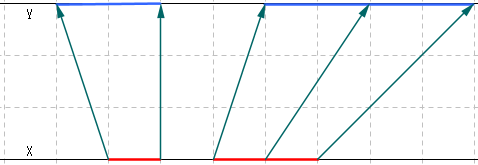
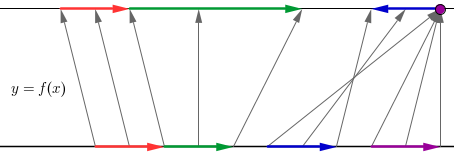
Updates numbers/infinitesimals.md
Auto commit by GitBook Editor

diff --git a/calculus/limits.md b/calculus/limits.md
@@ -3,13 +3,15 @@
 ### 函数极限
 
 考虑函数$$f(x)=\displaystyle{\frac{x^2-3x+2}{x^2-1}}$$，该函数在$$x=\pm 1$$处无定义。在$$x=-1$$处，函数$$f$$趋于无穷大；在$$x=-1$$处，函数$$f$$趋于$$-\frac12$$。
+
 ![](/assets/limits1.png)
-如何讨论函数的这种现象呢？我们发现，尽管在$$x=\pm1$$处无定义，但在其附近却处处有定义，这让我们联想到无穷小量。如果将$$f$$扩展到超实数域$${}^*\mathbb R$$，记作$${}^*f$$，取无穷小量$$\epsilon=\{\frac1n\}_1^\infty$$，那么对于$$^*x=1+\epsilon$$，有$$^*f(^*x)=\displaystyle{\frac{(1+\epsilon)^2-3(1+\epsilon)+2}{(1+\epsilon)^2-1}}=\frac{\epsilon-1}{\epsilon+2}$$。故$$\mathop{st} {}^*f(^*x)=\displaystyle{\lim_{n\to\infty}\frac{\frac1n-1}{\frac1n+2}=-\frac12}$$。  
-而对于$$^*x=-1+\epsilon$$，有$$^*f(^*x)=1-\displaystyle{\frac3\epsilon}$$，即$$\mathop{st} {}^*f(^*x)=\displaystyle{\lim_{n\to\infty}1-3n=-\infty}$$。如果我们取无穷小量$$\delta=\{-\frac1n\}_1^\infty$$，则$$\mathop{st}{}^*f(1+\delta)=-\frac12,\mathop{st}{}^*f(-1+\delta)=+\infty$$。我们还可以讨论$$^*f$$在$$x\to\infty$$时的表现，不难证明，$$\mathop{st}{}^*f(\frac1\epsilon)=\mathop{st}{}^*f(\frac1\delta)=1$$。
 
-对于实数域上的偏函数$$f:\mathbb R \to \mathbb R$$，将$$f$$扩展到超实数域$$^*f:^*\mathbb R \to ^*\mathbb R$$，且令$$\epsilon$$为正无穷小量，则定义$$f$$在点$$p$$的**左极限**为$$f(p^-):=\lim_{x\to p^-}f(x):=\mathop{st}{}^*f(p-\epsilon)$$，**右极限**为$$f(p^+):=\lim_{x\to p^+}f(x):=\mathop{st}{}^*f(p+\epsilon)$$。如果左极限和右极限相等，则极限值称为$$f$$在点$$p$$处的**极限**，或者，$$\lim_{x\to p}f(x):=\mathop{st}{}^*f({}^*p)$$。
+如何讨论函数的这种现象呢？我们发现，尽管在$$x=\pm1$$处无定义，但在其附近却处处有定义，这让我们联想到无穷小量。如果将$$f$$扩展到超实数域$${}^*\mathbb R$$，记作$${}^*f$$，取无穷小量$$\varepsilon=\{\frac1n\}_1^\infty$$，那么对于$$^*x=1+\varepsilon$$，有$$^*f(^*x)=\displaystyle{\frac{(1+\varepsilon)^2-3(1+\varepsilon)+2}{(1+\varepsilon)^2-1}}=\frac{\varepsilon-1}{\varepsilon+2}$$。故$$\mathop{st} {}^*f(^*x)=\displaystyle{\lim_{n\to\infty}\frac{\frac1n-1}{\frac1n+2}=-\frac12}$$。  
+而对于$$^*x=-1+\varepsilon$$，有$$^*f(^*x)=1-\displaystyle{\frac3\varepsilon}$$，即$$\mathop{st} {}^*f(^*x)=\displaystyle{\lim_{n\to\infty}1-3n=-\infty}$$。如果我们取无穷小量$$\delta=\{-\frac1n\}_1^\infty$$，则$$\mathop{st}{}^*f(1+\delta)=-\frac12,\mathop{st}{}^*f(-1+\delta)=+\infty$$。我们还可以讨论$$^*f$$在$$x\to\infty$$时的表现，不难证明，$$\mathop{st}{}^*f(\frac1\varepsilon)=\mathop{st}{}^*f(\frac1\delta)=1$$。
 
-极限还有另一种解释，如果任意精度的“尺子”最终无法测量$$L$$与$$p$$附近函数值$$f(x)$$之间的距离，那么$$f(x)$$在$$x=p$$处的极限为$$L$$。用数学语言表达为：$$\forall \epsilon \gt 0, \exists \delta \gt 0, \forall x \in (p-\delta, p+\delta): |f(x)-L| \lt \epsilon$$。读者可以将此与柯西列极限作比较。
+对于实数域上的偏函数$$f:\mathbb R \to \mathbb R$$，将$$f$$扩展到超实数域$$^*f:^*\mathbb R \to ^*\mathbb R$$，且令$$\varepsilon$$为正无穷小量，则定义$$f$$在点$$p$$的**左极限**为$$f(p^-):=\lim_{x\to p^-}f(x):=\mathop{st}{}^*f(p-\varepsilon)$$，**右极限**为$$f(p^+):=\lim_{x\to p^+}f(x):=\mathop{st}{}^*f(p+\varepsilon)$$。如果左极限和右极限相等，则极限值称为$$f$$在点$$p$$处的**极限**，或者，$$\lim_{x\to p}f(x):=\mathop{st}{}^*f({}^*p)$$。
+
+极限还有另一种解释，如果任意精度的“尺子”最终无法测量$$L$$与$$p$$附近函数值$$f(x)$$之间的距离，那么$$f(x)$$在$$x=p$$处的极限为$$L$$。用数学语言表达为：$$\forall \varepsilon \gt 0, \exists \delta \gt 0, \forall x \in (p-\delta, p+\delta): |f(x)-L| \lt \varepsilon$$。读者可以将此与柯西列极限作比较。
 
 **注意** _极限不一定存在，甚至单边极限也不一定存在，例如Dirichlet函数_$$D(x)=\begin{cases}1,&x \in \mathbb Q\\ 0, & x \notin \mathbb Q\end{cases}$$_处处不存在极限。_
 
@@ -37,7 +39,7 @@
 5. $$\lim_{x\to0}\dfrac{\cos ax-1}x=0$$
 6. $$\lim_{x\to0}\dfrac{\sin ax}{x}=a$$
 
-**证明**：性质1是定义的直接结果；利用牛顿二项式定理，因为$$(1+x)^a=\sum_{k=0}^\infty\binom{a}{k}x^k=1+ax+\sum_{k=2}^\infty\binom{a}{k}x^k$$，所以$$\lim_{x\to0}\dfrac{(1+x)^a-1}{x}=\mathop{st}\left(a+\sum_{k=1}^n\binom{a}{k+1}\epsilon^{k}\right)=a$$，性质2成立；性质3是性质2的推论；性质4只需对性质1取对数；性质5和6可对性质3应用欧拉公式。
+**证明**：性质1是定义的直接结果；利用牛顿二项式定理，因为$$(1+x)^a=\sum_{k=0}^\infty\binom{a}{k}x^k=1+ax+\sum_{k=2}^\infty\binom{a}{k}x^k$$，所以$$\lim_{x\to0}\dfrac{(1+x)^a-1}{x}=\mathop{st}\left(a+\sum_{k=1}^n\binom{a}{k+1}\varepsilon^{k}\right)=a$$，性质2成立；性质3是性质2的推论；性质4只需对性质1取对数；性质5和6可对性质3应用欧拉公式。
 ## 连续性
 
 如果函数$$f$$在点$$p$$处有定义且极限$$\lim_{x \to p}f(x)=f(p)$$，则称$$f$$在点$$p$$处**连续**。如果函数在定义域上每一点都连续，则称$$f$$为**连续函数**。

diff --git a/calculus/derivatives.md b/calculus/derivatives.md
@@ -2,12 +2,15 @@
 
 ## 定义
 
-实数域$$\mathbb R$$上的一个有序对$$(a,b)$$称为一个**有向区间**（不要求有$$a \lt b$$）。对子集$$X \subseteq \mathbb R$$上任意一点$$x\in X$$，称有向区间集合$$T_xX:=\{(x,x') \vert x' \in \mathbb R\}$$为$$X$$在点$$x$$处的**切集**，$$TX:=\bigcup_{x \in X}T_xX$$为$$X$$的切集。定义$$(a,b)$$的**有向长度**$$\overline{ab}:=b-a$$，因为任意$$(x,x') \in T_xX$$，存在唯一实数$$v_x = \overline{xx'}$$，反之亦然，故也有$$T_xX=\{v_x|v_x \in \mathbb R\}$$。
-
-考虑线性函数$$l:X\to Y$$满足$$x\mapsto kx$$。函数$$l$$是子集$$X$$到$$Y$$的均匀伸缩。可以计算$$l$$在$$x \in X$$处的伸缩比$$l'(x)=\dfrac{\overline{l(x)l(x')}}{\overline{xx'}}=\dfrac{kx'-kx}{x'-x}=k$$。显然，$$x$$处的伸缩比$$l'(x)$$应该与$$x'$$的选择无关。
+考虑实函数$$y=f(x)$$，$$f$$可看作定义域到值域的一个伸缩形变。例如，在下图中，红色部分是一个等距平移，绿色部分是一个拉伸，蓝色部分是一个反向拉伸，紫色部分是一个压缩。为了研究函数$$f$$的形变情况，可以定义形变率。
 
 ![](/assets/derivatives1.png)
 
-自然地，函数$$l$$导出切集上的函数$$l_*:TX \to TY$$满足$$(x,x')\mapsto (kx,kx')$$以及$$l_{x*}:T_xX\to T_{l(x)}Y$$满足$$v_x\mapsto v_{l(x)}:=kv_x$$。因此，$$x$$处的伸缩比还可定义为$$l'(x):=\dfrac{v_{l(x)}}{v_x}=\dfrac{kv_x}{v_x}=k$$，或者$$l'(x)=l_{x*}$$。
+具体来说，定义实数域$$\mathbb R$$上的一个有序对$$(a,b)$$为一个**有向区间**（不必有$$a \lt b$$），$$\overline{ab}:=b-a$$为$$(a,b)$$的**有向长度**。那么，函数$$f$$在有向区间$$(a,b)$$的形变率$$k_f(a,b)=\dfrac{\overline{f(a)f(b)}}{\overline{ab}}$$。如果函数$$f$$是线性函数，即对任意$$(a,b)$$满足$$\overline{f(a)f(b)}=f(\overline{ab})$$，则$$k_f(a,b)=\dfrac{f(\overline{ab})}{\overline{ab}}=f(1)$$是常数，所以线性函数在每一点具有相同的形变率。显然，如果将函数$$f$$平移至$$g(x)=f(x)+c$$，则$$g(x)$$在每一个有向区间上的形变率不变。因此，仿射函数（线性函数的平移）在每一点也具有相同的形变率。
 
-对于一般的实函数$$f:X\to Y$$，也可以看做是子集$$X$$到$$Y$$的伸缩，只不过不是均匀的。因此在计算点$$x$$处的伸缩比$$f'(x)$$时，需要选取
+在上图中，函数$$f(x)$$在红、蓝、紫色区间内是仿射函数，每一点的形变率可以由有向区间长度比直接求出；而在绿色区间内，定义域上相同长度的有向子区间在不同位置被$$f$$拉伸成为值域上不同长度的有向子区间。为了计算函数$$f$$在一点$$x$$的形变率，我们在充分小的有向区间$$(x,x')$$内，用一个仿射函数$$\tilde f$$逼近函数$$f$$，用仿射函数$$\tilde f$$的形变率作为函数$$f$$在点$$x$$的形变率，即$$k_f(x):=k_{\tilde f}$$。
+
+我们计算$$k_{\tilde f}$$，由于函数$$\tilde f$$的定义域$$(x,x')$$充分小，可考虑极限$$x'\to x$$，则$$k_{\tilde f}=\lim_{x'\to x}\dfrac{\overline{\tilde f(x)\tilde f(x')}}{\overline{xx'}}=\lim_{x'\to x}\dfrac{\tilde f(x')-\tilde f(x)}{x'-x}=\lim_{x'\to x}\dfrac{f(x')-f(x)}{x'-x}$$。等价地，如果扩展$$f$$到超实数域$$^*f$$，则$$k_{\bar f}=\mathop{st}\dfrac{^*f(^*x)-{}^*f(x)}{^*x-x}=\mathop{st}\dfrac{^*f(x+\varepsilon)-{}^*f(x)}{\varepsilon}$$。
+
+我们称函数$$f$$在点$$x$$的变形率为**导数**，记作$$f'(x):=k_f(x)$$，导数是$$x$$的函数，也称$$f'$$是$$f$$的**导函数**。仿射函数$$\tilde f_x$$称为$$f$$在点$$x$$的**一阶逼近**，$$df_x=\overline{\tilde f(x)\tilde f(x+\varepsilon)}$$称为$$f$$在点$$x$$的**微分**。令恒等函数$$\iota(x)=x$$，则$$d\iota_x=dx=\varepsilon$$，则$$f'=\dfrac{df}{dx}$$，故导数也称为**微商**。
+

diff --git a/numbers/infinitesimals.md b/numbers/infinitesimals.md
@@ -24,7 +24,7 @@
 
 ## 超实数
 
-另外一种构造无穷小量的方法与构造实数的方法类似，通过柯西列来定义。考虑实数构成的柯西列$$\{a_n\}_0^\infty$$，如果实数数列的每一项都有$$a_n=r$$，则该柯西列定义为超实数$$r$$；如果$$\lim_{n\to\infty}a_n=0$$，则称该柯西列为超实数中的**无穷小量**。因此，任何一个超实数可以表示为一个实数和一个无穷小量的和，$${}^*r=r+\epsilon$$。记所有实数构成的柯西列为$$\mathscr C(\mathbb R)$$，两个柯西列等价$$\{a_n\}_0^\infty \sim \{b_n\}_0^\infty$$当且仅当$$\{|a_n-b_n|\}_0^\infty$$是无穷小量，则超实数可写为$$^*\mathbb R:=\mathscr C(\mathbb R)\setminus\sim$$。
+另外一种构造无穷小量的方法与构造实数的方法类似，通过柯西列来定义。考虑实数构成的柯西列$$\{a_n\}_0^\infty$$，如果实数数列的每一项都有$$a_n=r$$，则该柯西列定义为超实数$$r$$；如果$$\lim_{n\to\infty}a_n=0$$，则称该柯西列为超实数中的**无穷小量**。因此，任何一个超实数可以表示为一个实数和一个无穷小量的和，$${}^*r=r+\varepsilon$$。记所有实数构成的柯西列为$$\mathscr C(\mathbb R)$$，两个柯西列等价$$\{a_n\}_0^\infty \sim \{b_n\}_0^\infty$$当且仅当$$\{|a_n-b_n|\}_0^\infty$$是无穷小量，则超实数可写为$$^*\mathbb R:=\mathscr C(\mathbb R)\setminus\sim$$。
 
 ![](https://upload.wikimedia.org/wikipedia/commons/thumb/8/8f/Standard_part_function_with_two_continua.svg/720px-Standard_part_function_with_two_continua.svg.png)
 
